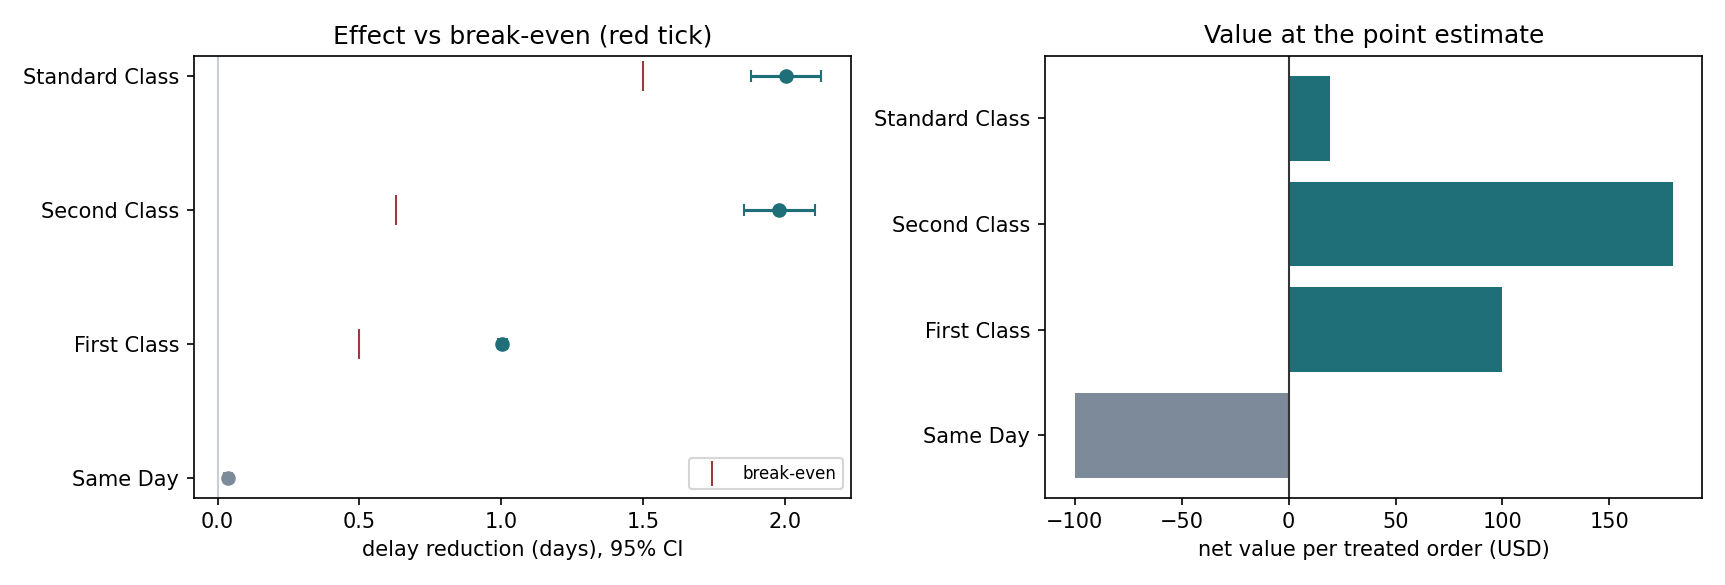
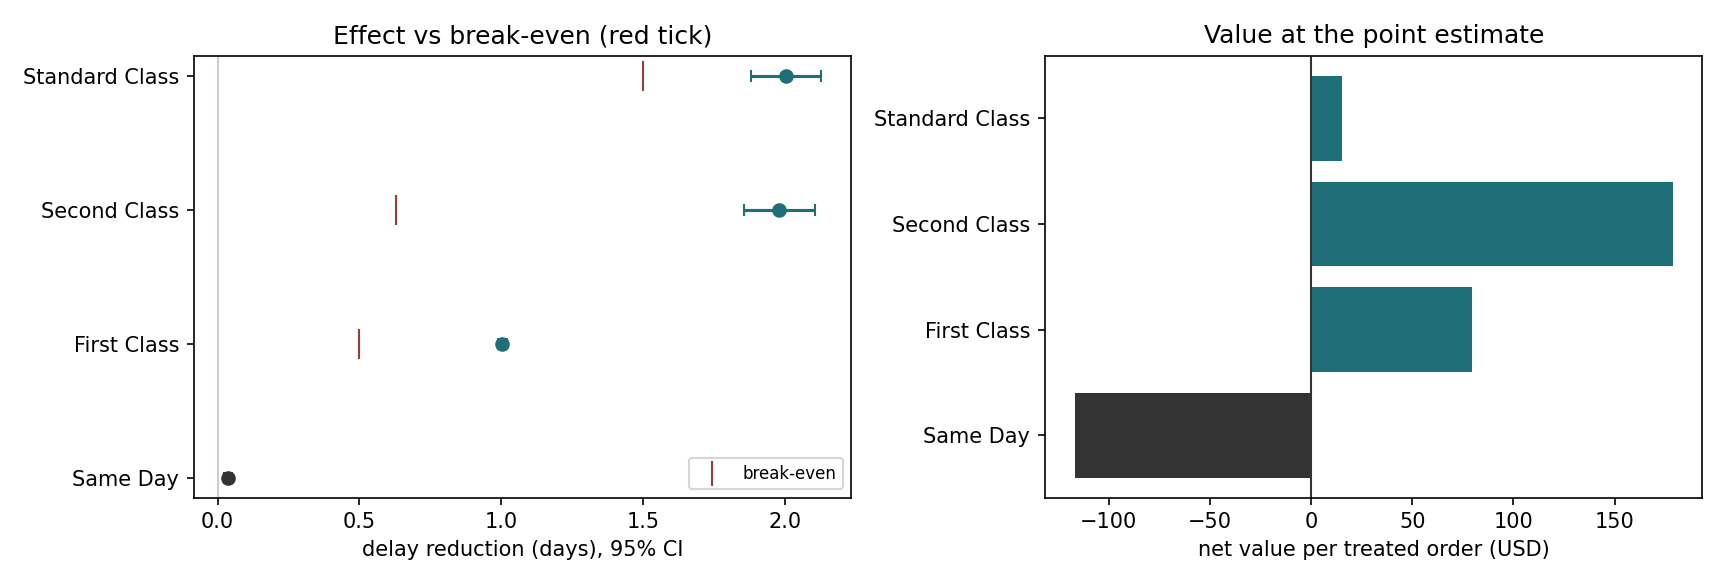
fix: A/B 按实际成本判断，uplift 用净收益 Oracle

diff --git a/scripts/ab_analysis.py b/scripts/ab_analysis.py
@@ -85,19 +85,20 @@ def summarise(
                                  "break_even": break_even.get("all", float("nan"))}])
 
     srm_ok = bool(srm.get("ok", True))
-    decisions = []
-    for low, high, be, mode in zip(  # noqa: B905
-        by_mode["ci_low"], by_mode["ci_high"], by_mode["break_even"], by_mode["shipping_mode"]
-    ):
-        if not srm_ok:
-            decisions.append("hold (SRM anomaly)")
-        elif mode == "all" and not np.isfinite(be):
-            decisions.append("not evaluated (no break-even)")
-        else:
-            decisions.append(experiment.rollout_decision(low, high, be))
-    by_mode["decision"] = decisions
-    if not srm_ok:
-        srm["note"] = "SRM 检验未通过：分流比例异常，任何效应估计都不可信，已阻断上线建议"
+    # 直接比较每单实际成本：罚金按正延迟计，干预费只对处理组计。
+    # 平均缩短天数不等于净收益，尤其当对照订单本来就不晚时。
+    frame = frame.copy()
+    frame["_cost"] = penalty * np.maximum(frame["delay_days"].to_numpy(dtype=float), 0.0) \
+        + express_cost * frame["treated"].to_numpy(dtype=float)
+    cost_by_mode = {}
+    if "shipping_mode" in frame.columns:
+        cost_by_mode = {
+            mode: (chunk.loc[chunk["treated"] == 0, "_cost"].to_numpy(),
+                   chunk.loc[chunk["treated"] == 1, "_cost"].to_numpy())
+            for mode, chunk in frame.groupby("shipping_mode")
+        }
+    cost_all = (frame.loc[frame["treated"] == 0, "_cost"].to_numpy(),
+                frame.loc[frame["treated"] == 1, "_cost"].to_numpy())
     # 每个运输方式必须用**本组**的对照延迟：pooled 对照会混进 Same Day 这种
     # 本来就不晚的订单，把净收益压成 0（复审 S2 的最小反例）。
     control_all = frame.loc[frame["treated"] == 0, "delay_days"].to_numpy(dtype=float)
@@ -107,20 +108,34 @@ def summarise(
             mode: chunk.loc[chunk["treated"] == 0, "delay_days"].to_numpy(dtype=float)
             for mode, chunk in frame.groupby("shipping_mode")
         }
-    net_values, upper_bounds = [], []
+    net_values, lower_bounds, upper_bounds, decisions = [], [], [], []
     for _, row in by_mode.iterrows():
-        ctrl = ctrl_by_mode.get(row["shipping_mode"]) if ctrl_by_mode else control_all
-        if ctrl is None or getattr(ctrl, "size", 0) == 0:
-            ctrl = control_all
-        net_values.append(experiment.net_value(row["reduction"], penalty, express_cost, ctrl))
-        upper_bounds.append(experiment.net_value(row["reduction"], penalty, express_cost))
+        mode = row["shipping_mode"]
+        ctrl_cost, trt_cost = cost_by_mode.get(mode, cost_all) if cost_by_mode else cost_all
+        if len(ctrl_cost) < 2 or len(trt_cost) < 2:
+            net_values.append(float("nan")); lower_bounds.append(float("nan")); upper_bounds.append(float("nan"))
+            decisions.append("not evaluated (no cost estimate)")
+            continue
+        cost_est = experiment.welch_reduction(ctrl_cost, trt_cost)
+        net_values.append(float(cost_est.reduction))
+        lower_bounds.append(float(cost_est.ci_low))
+        upper_bounds.append(float(cost_est.ci_high))
+        if not srm_ok:
+            decisions.append("hold (SRM anomaly)")
+        elif mode == "all" and not np.isfinite(row["break_even"]):
+            decisions.append("not evaluated (no break-even)")
+        elif cost_est.ci_low > 0:
+            decisions.append("roll out")
+        elif cost_est.ci_high < 0:
+            decisions.append("do not roll out (negative net value)")
+        else:
+            decisions.append("inconclusive")
     by_mode["net_value_per_order"] = net_values
-    by_mode["net_value_upper_bound"] = upper_bounds
-    # 效应 CI 过回本点，不代表扣掉行动成本后还赚钱；净收益为负时不能建议上线。
-    by_mode["decision"] = [
-        "do not roll out (negative net value)" if d == "roll out" and v <= 0 else d
-        for d, v in zip(by_mode["decision"], by_mode["net_value_per_order"])  # noqa: B905
-    ]
+    by_mode["net_value_ci_low"] = lower_bounds
+    by_mode["net_value_ci_high"] = upper_bounds
+    by_mode["decision"] = decisions
+    if not srm_ok:
+        srm["note"] = "SRM 检验未通过：分流比例异常，任何效应估计都不可信，已阻断上线建议"
     if simulated and "true_effect" in frame.columns:
         truth = frame.groupby("shipping_mode")["true_effect"].first()
         by_mode["true_effect"] = by_mode["shipping_mode"].map(truth)

diff --git a/scripts/uplift_analysis.py b/scripts/uplift_analysis.py
@@ -121,12 +121,17 @@ def main() -> int:
     p_late = bundle["binary"].predict_proba(X_test)[:, 1]
     gain = pmf_gain(bundle, df_test, penalty, args.action_cost)
     rng = np.random.default_rng(args.seed)
+    # Qini 仍用 effect oracle；财务上界要按每单实际节省排序，而不是缩短天数。
+    oracle_net_gain = penalty * (
+        np.maximum(target[test], 0.0) - np.maximum(target[test] - effect_test, 0.0)
+    ) - args.action_cost
     scores = {
         "cate": cate,
         "p_late": p_late,
         "pmf_gain": gain,
         "random": rng.uniform(size=len(cate)),
         "oracle": effect_test,
+        "oracle_net_gain": oracle_net_gain,
     }
 
     curve = uplift.qini_curve(cate, effect_test)
